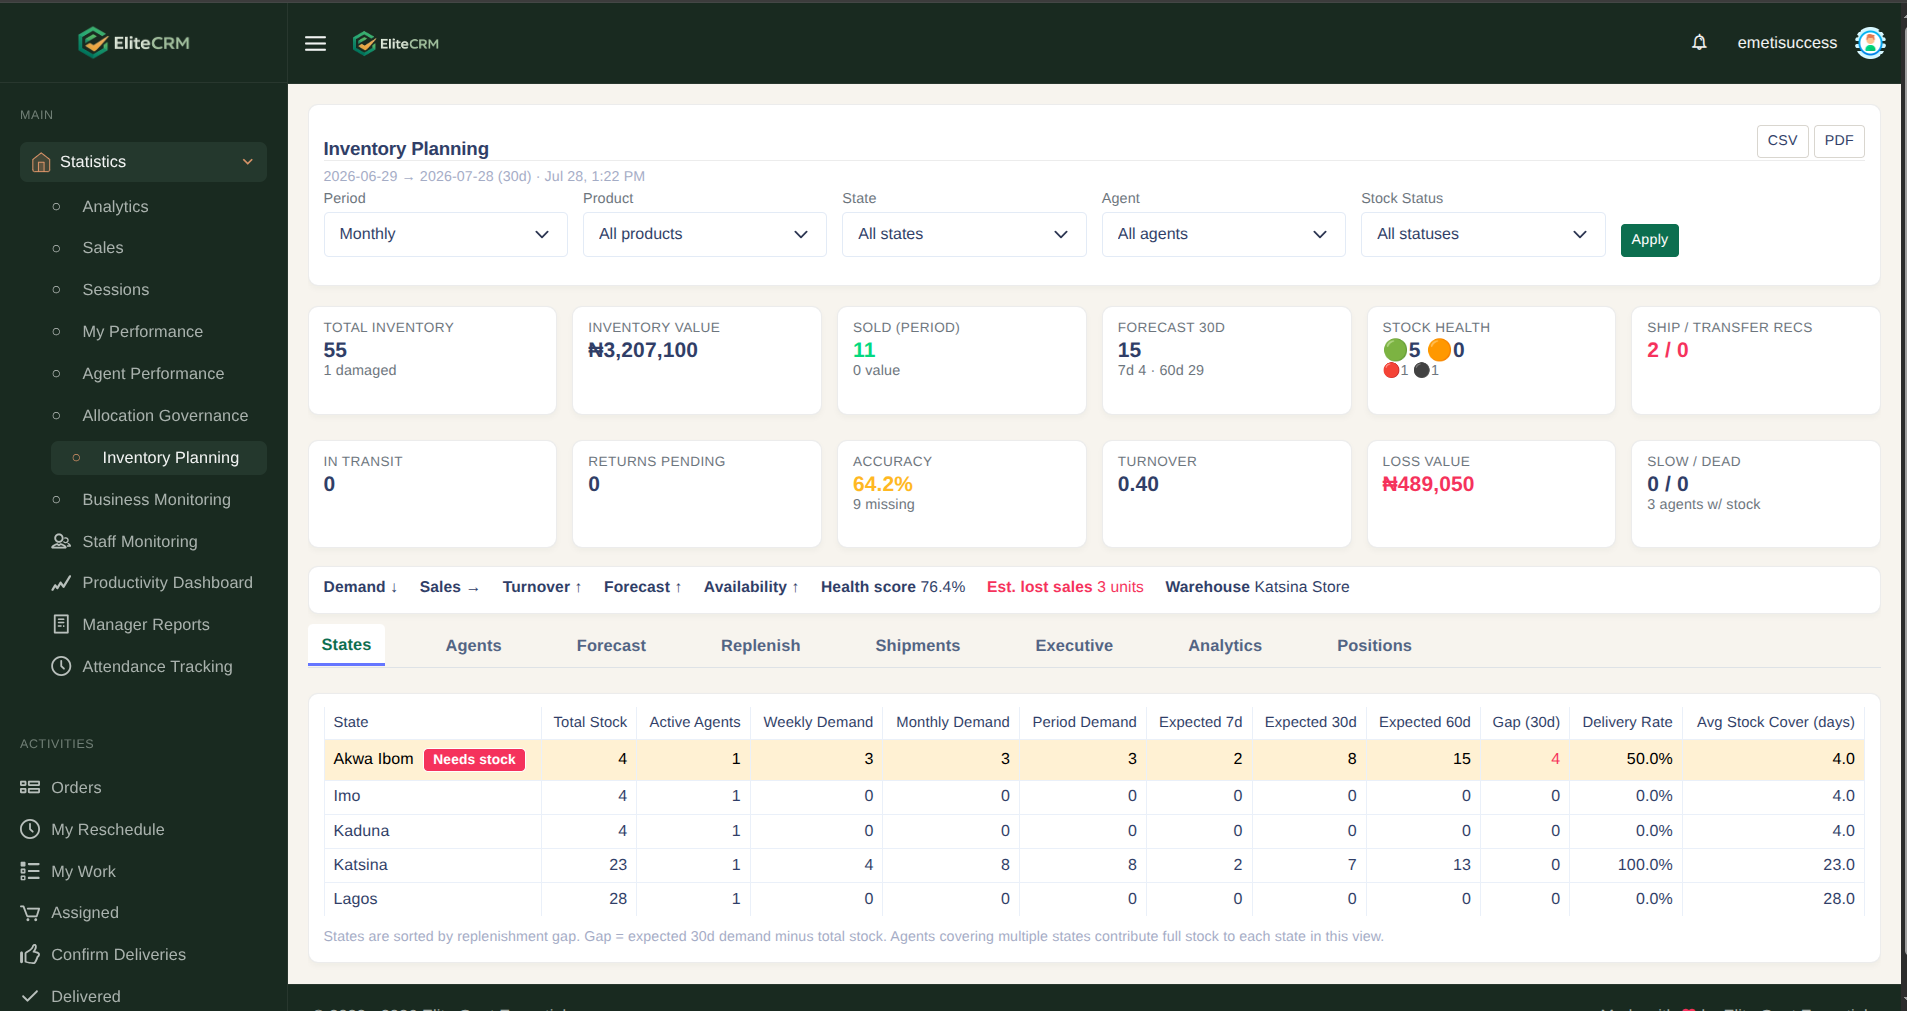
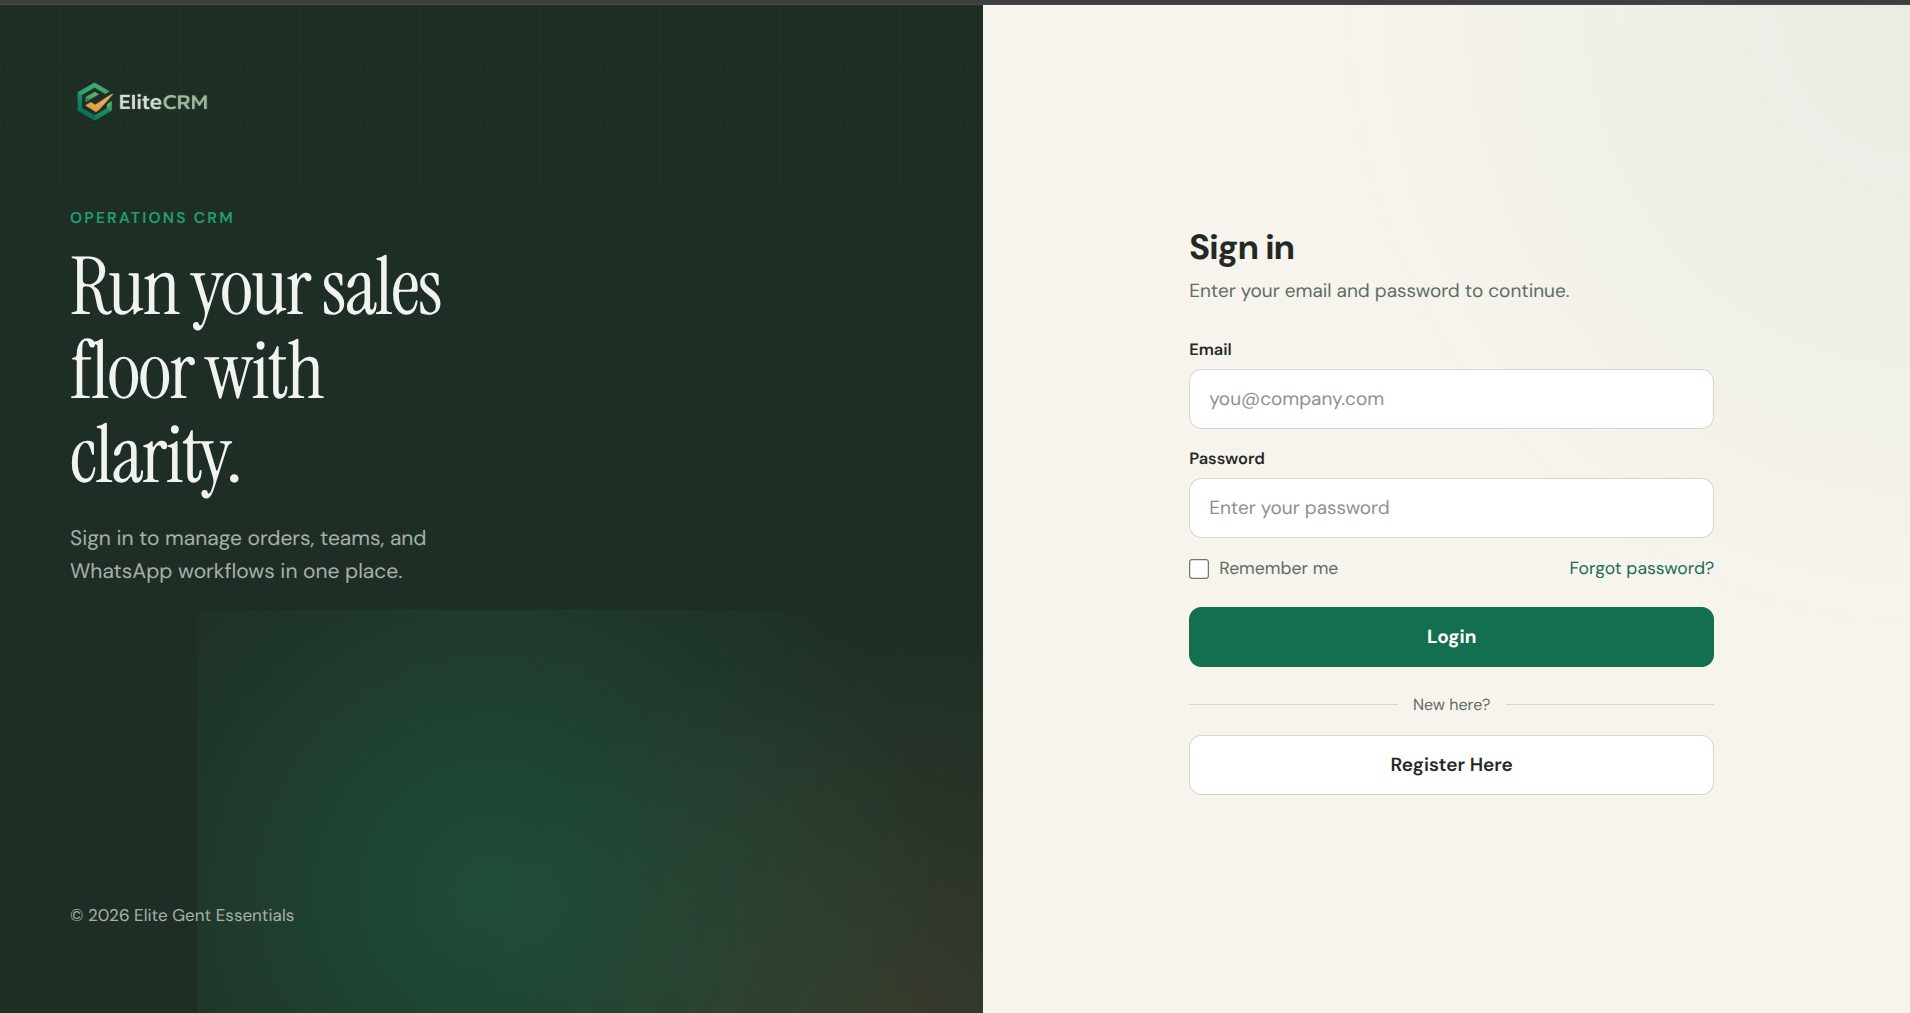
portolio update commit

diff --git a/index.html b/index.html
@@ -50,10 +50,7 @@
     <header id="header" class="fixed-top">
       <div class="container d-flex align-items-center">
         <a href="index.html" class="logo me-auto"
-          ><img
-            src="assets/img/logo.png"
-            alt="Emeti Success"
-            class="img-fluid"
+          ><img src="assets/img/logo.png" alt="Emeti Success" class="img-fluid"
         /></a>
 
         <nav id="navbar" class="navbar">
@@ -694,6 +691,37 @@
                 </div>
               </div>
             </div>
+
+            <div class="col-lg-4 col-md-6 portfolio-item filter-web">
+              <div class="portfolio-wrap">
+                <img
+                  src="assets/img/portfolio/krystal.png"
+                  class="img-fluid"
+                  alt=""
+                />
+                <div class="portfolio-info">
+                  <h4>Krystalstores</h4>
+                  <p>Pay On Delivery Landing Page</p>
+                  <div class="portfolio-links">
+                    <a
+                      href="assets/img/portfolio/krystal.png"
+                      data-gallery="portfolioGallery"
+                      class="portfolio-lightbox"
+                      title="Krystalstores"
+                      ><i class="bx bx-plus"></i
+                    ></a>
+                  </div>
+                  <div class="portfolio-btn">
+                    <a
+                      href="https://krystalstores.com"
+                      target="_blank"
+                      class="btn-visit"
+                      >Visit Website</a
+                    >
+                  </div>
+                </div>
+              </div>
+            </div>
           </div>
         </div>
       </section>
@@ -924,35 +952,6 @@
                 </div>
               </div>
             </div>
-
-            <!-- <div class="col-lg-7 mt-5 mt-lg-0 d-flex align-items-stretch">
-       <form action="forms/contact.php" method="post" role="form" class="php-email-form">
-        <div class="row">
-         <div class="form-group col-md-6">
-          <label for="name">Your Name</label>
-          <input type="text" name="name" class="form-control" id="name" required />
-         </div>
-         <div class="form-group col-md-6">
-          <label for="name">Your Email</label>
-          <input type="email" class="form-control" name="email" id="email" required />
-         </div>
-        </div>
-        <div class="form-group">
-         <label for="name">Subject</label>
-         <input type="text" class="form-control" name="subject" id="subject" required />
-        </div>
-        <div class="form-group">
-         <label for="name">Message</label>
-         <textarea class="form-control" name="message" rows="10" required></textarea>
-        </div>
-        <div class="my-3">
-         <div class="loading">Loading</div>
-         <div class="error-message"></div>
-         <div class="sent-message">Your message has been sent. Thank you!</div>
-        </div>
-        <div class="text-center"><button type="submit">Send Message</button></div>
-       </form>
-      </div> -->
           </div>
         </div>
       </section>
@@ -973,7 +972,7 @@
                   class="img-fluid"
               /></a>
               <p>
-                <strong>Phone:</strong> +234-9064840719<br />
+                <strong>Phone:</strong> +2349064840719<br />
                 <strong>Email:</strong> emetisuccess@gmail.com<br />
               </p>
             </div>
